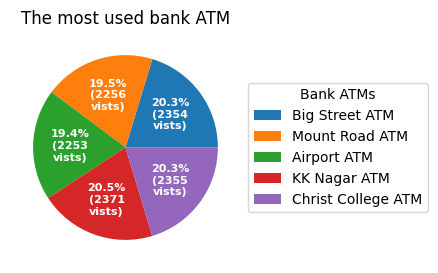
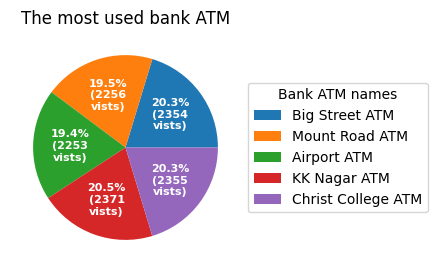
festival relgion pie chart created

Changed region(s): [[0.6233, 0.3223, 0.9201, 0.381]]

diff --git a/FestivalRelgionQuery.py b/FestivalRelgionQuery.py
@@ -1,0 +1,54 @@
+import matplotlib.pyplot as plt
+
+from CsvReader import CsvReader
+
+
+class FestivalRelgionQuery:
+    def __init__(self, csv_file):
+        self.reader = CsvReader(csv_file)
+
+    def get_frequencies(self):
+        festivals = [row[9].title() for row in self.reader.read()]
+
+        # for loop that calculates the frequency of bank transcations based on festival relgion
+        frequencies = {}
+        for festival in festivals:
+            if festival in frequencies:
+                frequencies[festival] += 1
+            else:
+                frequencies[festival] = 1
+
+        return frequencies
+
+    def run(self):
+        # Pie chart, where the slices will be ordered and plotted counter-clockwise:
+        labels = list(self.get_frequencies().keys())  # list of festival religions
+        data = list(self.get_frequencies().values())  # list of frequency of bank vists
+        explode = (
+            0.9,
+            0.9,
+            0.9,
+            0.9,
+            0.1,
+        )  # to section out a slice of the pie chart from the pie chart
+
+        fig1, ax = plt.subplots()
+        ax.pie(
+            data,
+            explode=explode,
+            labels=labels,
+            autopct="%1.1f%%",
+            shadow=True,
+            startangle=180,
+        )
+        ax.axis("equal")  # Equal aspect ratio ensures that pie is drawn as a circle.
+
+        ax.set_title("Percentage (%) of bank transactions based on Festival Relgion")
+
+        plt.legend(title="Festival Relgion")
+
+        plt.show()
+
+        # plt.savefig(
+        #     "festival-relgion_pie-chart.png", bbox_inches="tight"
+        # )  # first arguement is the name of the file that I want to create and have my graph saved in. Second arguement is used to trim extra whitespaces from the plot

diff --git a/main.py b/main.py
@@ -1,13 +1,37 @@
 from BankFrequencyQuery import BankFrequencyQuery
 from CardWithdrawQuery import CardWithdrawQuery
 from DayFrequencyQuery import DayFrequencyQuery
+from FestivalRelgionQuery import FestivalRelgionQuery
 
 # if I have a CSV file without a header then reader.read(header=False)
-bank_frequency_query = BankFrequencyQuery("AggregatedData.csv")
-bank_frequency_query.run()
+try:
+    bank_frequency_query = BankFrequencyQuery("AggregatedData.csv")
+    bank_frequency_query.run()
+except TypeError:
+    print("CSV file was not given as a arguement")
+except FileNotFoundError:
+    print("CSV file was not found")
 
-day_frequency_query = DayFrequencyQuery("AggregatedData.csv")
-day_frequency_query.run()
+try:
+    day_frequency_query = DayFrequencyQuery("AggregatedData.csv")
+    day_frequency_query.run()
+except TypeError:
+    print("CSV file was not given as a arguement")
+except FileNotFoundError:
+    print("CSV file was not found")
 
-card_withdraw_query = CardWithdrawQuery("AggregatedData.csv")
-card_withdraw_query.run()
+try:
+    card_withdraw_query = CardWithdrawQuery("AggregatedData.csv")
+    card_withdraw_query.run()
+except TypeError:
+    print("CSV file was not given as a arguement")
+except FileNotFoundError:
+    print("CSV file was not found")
+
+try:
+    festival_relgion_query = FestivalRelgionQuery("AggregatedData.csv")
+    festival_relgion_query.run()
+except TypeError:
+    print("CSV file was not given as a arguement")
+except FileNotFoundError:
+    print("CSV file was not found")

diff --git a/CardWithdrawQuery.py b/CardWithdrawQuery.py
@@ -8,6 +8,7 @@ class CardWithdrawQuery:
     def __init__(self, csv_file):
         self.reader = CsvReader(csv_file)
 
+    # function to retrieve the average card withdrawals for XYZ cards and Other cards
     def get_means(self):
         xyz_data = []
         other_data = []
@@ -28,7 +29,7 @@ class CardWithdrawQuery:
         data = self.get_means()[0]  # average amout of xyz card withdrawals
         data2 = self.get_means()[1]  # average amout of other card withdrawals
 
-        labels = ["Average number of card withdrawals per card type"]  # x axis label
+        labels = ["Average number of card withdrawals per day"]  # x axis label
         xyz_means = data
         other_means = data2
 
@@ -44,7 +45,7 @@ class CardWithdrawQuery:
         )
 
         # Add some text for labels, title and custom x-axis tick labels, etc.
-        ax.set_ylabel("Percentage scores (%)")
+        ax.set_ylabel("scores")
         ax.set_title("Number of card withdrawals comparison")
         ax.set_xticks(x, labels)
         ax.legend()

diff --git a/BankFrequencyQuery.py b/BankFrequencyQuery.py
@@ -26,7 +26,7 @@ class BankFrequencyQuery:
         return "{:.1f}%\n({:d}\nvists)".format(pct, absolute)
 
     def run(self):
-        fig, ax = plt.subplots(figsize=(6, 3), subplot_kw=dict(aspect="equal"))
+        fig, ax = plt.subplots(figsize=(10, 3), subplot_kw=dict(aspect="equal"))
 
         data = list(self.get_frequencies().values())  # list of frequency of bank vists
 
@@ -41,7 +41,7 @@ class BankFrequencyQuery:
         ax.legend(
             wedges,
             bank_atms,
-            title="Bank ATMs",
+            title="Bank ATM names",
             loc="center left",
             bbox_to_anchor=(1, 0, 0.5, 1),
         )

diff --git a/DayFrequencyQuery.py b/DayFrequencyQuery.py
@@ -10,7 +10,8 @@ class DayFrequencyQuery:
 
     def get_frequencies(self):
         days = [row[8].title() for row in self.reader.read()]
-        # for loop that calculates the frequented week day to bank atm
+
+        # for loop that calculates the frequency of bank vists per week day
         frequencies = {}
         for day in days:
             if day in frequencies:
@@ -47,7 +48,7 @@ class DayFrequencyQuery:
 
         plt.setp(autotexts, size=6, weight="bold")
 
-        ax.set_title("Frequency of bank ATM vists per week day")
+        ax.set_title("Frequency of bank ATM transactions per week day")
 
         plt.show()
 
